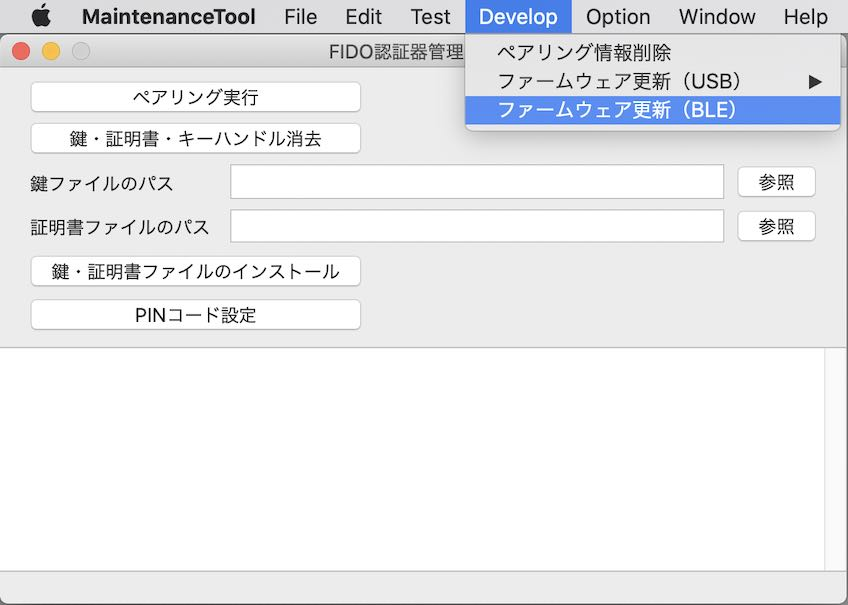
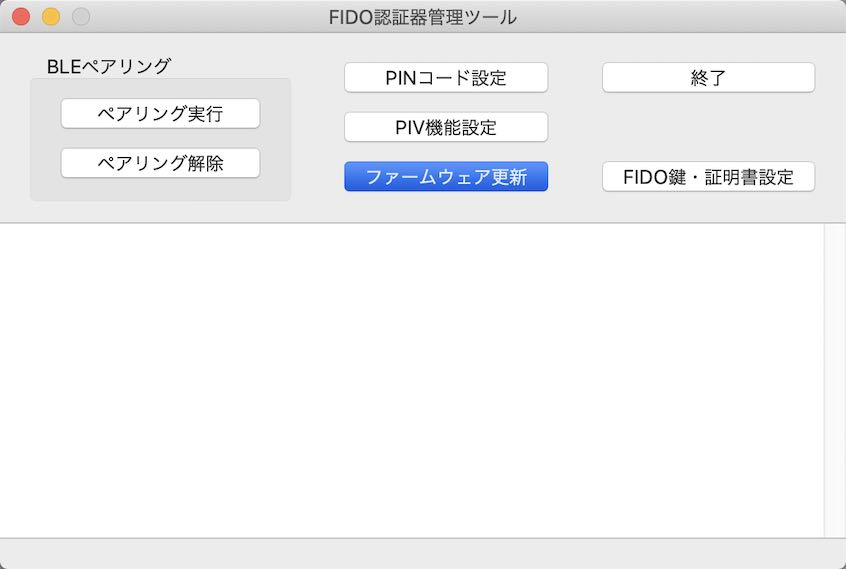
ドキュメントを更新
・画面コピーの差し替え

diff --git a/MaintenanceTool/macOSApp/UPDATEFW_BLE.md b/MaintenanceTool/macOSApp/UPDATEFW_BLE.md
@@ -17,9 +17,19 @@ MDBT50Q Dongleをご使用の場合は、背面にあるボタン電池ケース
 
 ## 操作方法
 
-[管理ツール（macOS版）](../../MaintenanceTool/macOSApp/README.md)を起動し、`Develop`メニューから「ファームウェア更新（BLE）」を選択します。
+[管理ツール（macOS版）](../../MaintenanceTool/macOSApp/README.md)を起動し、画面の「ファームウェア更新」ボタンをクリックします。
 
 <img src="assets06/0001.jpg" width="400">
+
+ファームウェア更新画面が表示されます。<br>
+画面下部のボックス「nRF5340用」の中にあるボタン「ファームウェアを更新（BLE）」をクリックします。
+
+<img src="assets06/0012.jpg" width="400">
+
+確認ダイアログが表示されます。<br>
+処理を続行したい場合は「Yes」をクリックします。
+
+<img src="assets06/0013.jpg" width="400">
 
 処理開始画面が表示されます。<br>
 MDBT50Q Dongleに導入されているファームウェアのバージョンと、更新するバージョンが表示されます。
